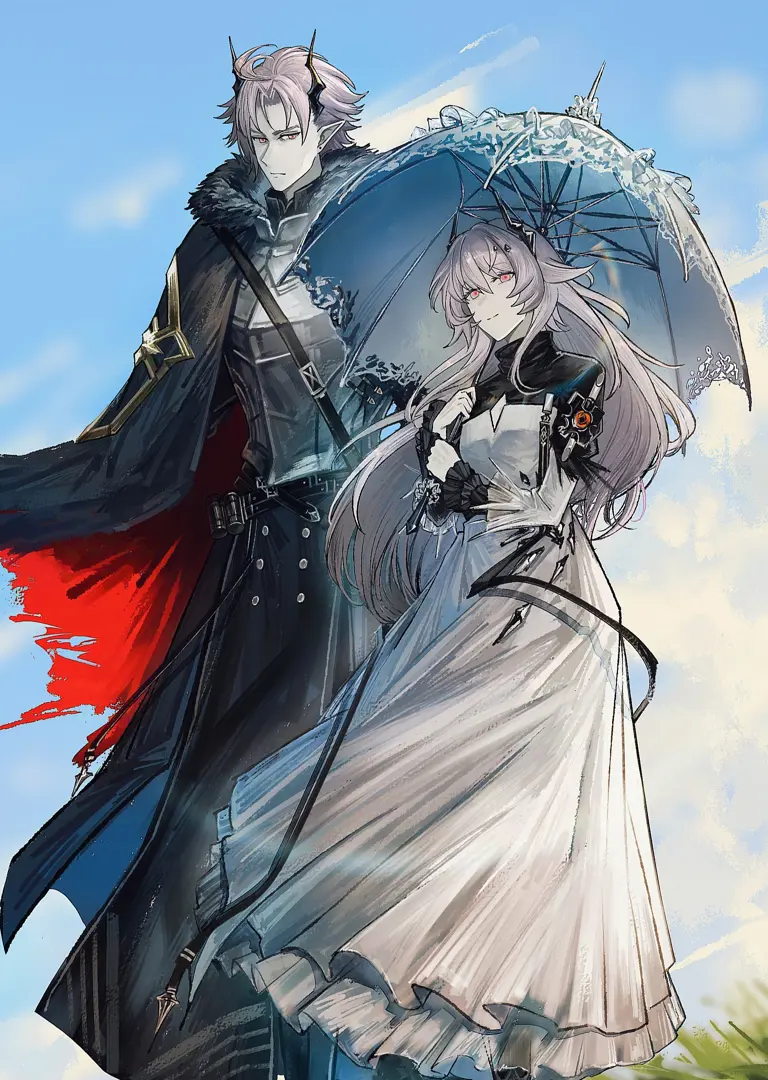
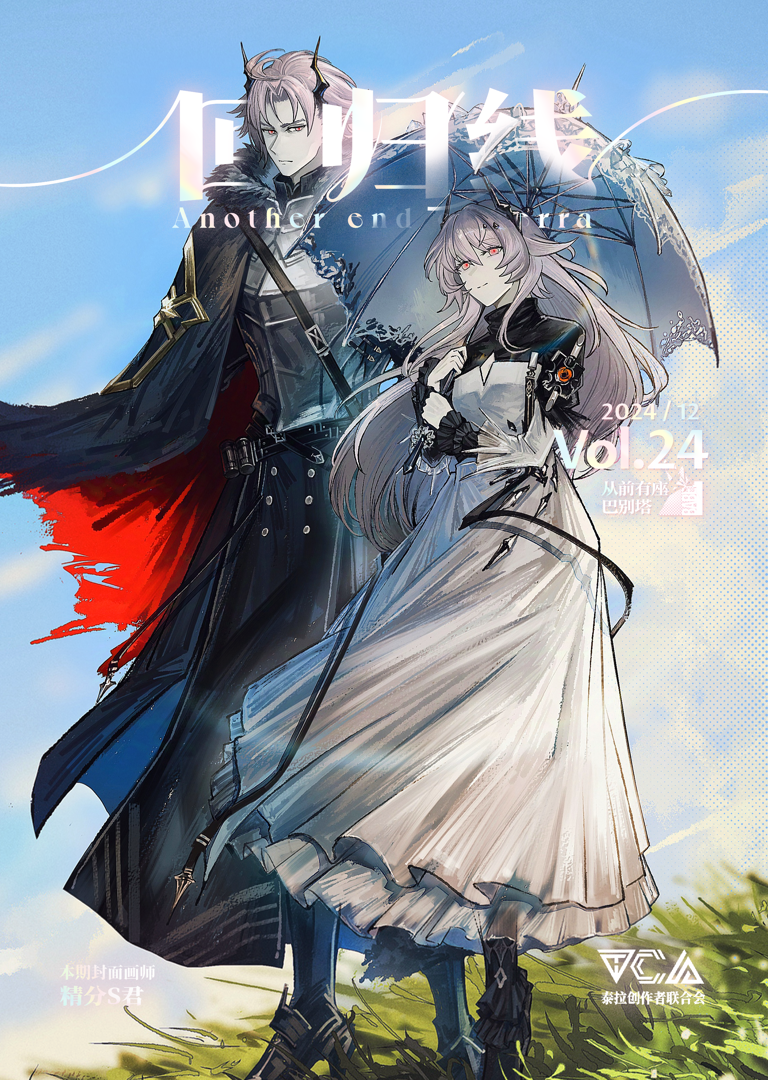
- 更新本期封面 - 将《致特蕾西娅》改为《致 特蕾西娅》 - 为《特蕾西娅小姐？》添加粥鋪老师的插图 - 为《Seasons will pass you by》中的落款添加斜体

diff --git a/docs/posts/2024-12/article6.md b/docs/posts/2024-12/article6.md
@@ -427,11 +427,11 @@ You imaginEd it waS.
 
 而对各个小故事的顺序安排，基本上是在构思这篇故事的第一天（晚上八点到凌晨一点半）完成的，很可能并无规律可循，是依着灵感到处乱窜。后来，我想到的是通过问题与解答，紧张与松弛，或故事嵌套故事的方法来衔接各个故事，有那么几天想把它牵强附会成克莱因瓶的结构（H段是那个本不该存在的，瓶颈与瓶身交汇的节点，而它又被G段的故事吞下）或让K段即是开端又是结尾。这两个片段也是我打破规矩，让普瑞赛斯最接近“真实出现”的状态。万一你真的对我心中的故事顺序很感兴趣，不妨按照如下顺序去把章节穿起来——如果在冬夜，一位博士-在奥辛尼市郊外-从陡峭悬崖上探出身躯-不怕寒风，不怕眩晕-望着黑沉沉的下面-在线条交织的网中-在线条交叉的网中-在月光照耀的落叶上-在空墓穴的周围-最后的结局是什么？
 
-</em>
-
 阿里曼的红字{.aright}
 
 2022.9.16{.aright}
+
+</em>
 
 <eod class="eod-aright" />
 

diff --git a/docs/posts/2024-12/article3.md b/docs/posts/2024-12/article3.md
@@ -129,12 +129,14 @@ order: 4
 
 阿米娅迟疑地转过头，看着那熟悉到让人眼睛发酸的面容，突然用熟悉的语调说话。
 
+![](./res/illustration/文章配图（粥鋪）.webp) {.centering}
+
 “真的，长高了好多呢。”
 
 但理智就在一瞬间消失，变成了发自内心的笑容。
 
 “嗯！”<eod />
 
-（责任编辑：广英和荣耀；网页排版：Baka632）
+（责任编辑：广英和荣耀；网页排版：Baka632；绘图：粥鋪）
 
 <FakeAds />

diff --git a/docs/posts/2024-12/README.md b/docs/posts/2024-12/README.md
@@ -10,7 +10,7 @@ title: Vol. 24 - 2024 年 12 月号：从前有座巴别塔
 
 - [**卷首语**](intro.html)
 - **见字如面 · 罗德岛日志**
-  - [致特蕾西娅](article1.html)
+  - [致 特蕾西娅](article1.html)
   - [魔王之拥](article2.html)
   - [特蕾西娅小姐？](article3.html)
 - **见字如面 · 此地之外**

diff --git a/docs/posts/2024-12/article1.md b/docs/posts/2024-12/article1.md
@@ -1,6 +1,6 @@
 ---
 icon: article
-title: 致特蕾西娅
+title: 致 特蕾西娅
 author: 幻灭
 date: 2024-12-03
 category:
